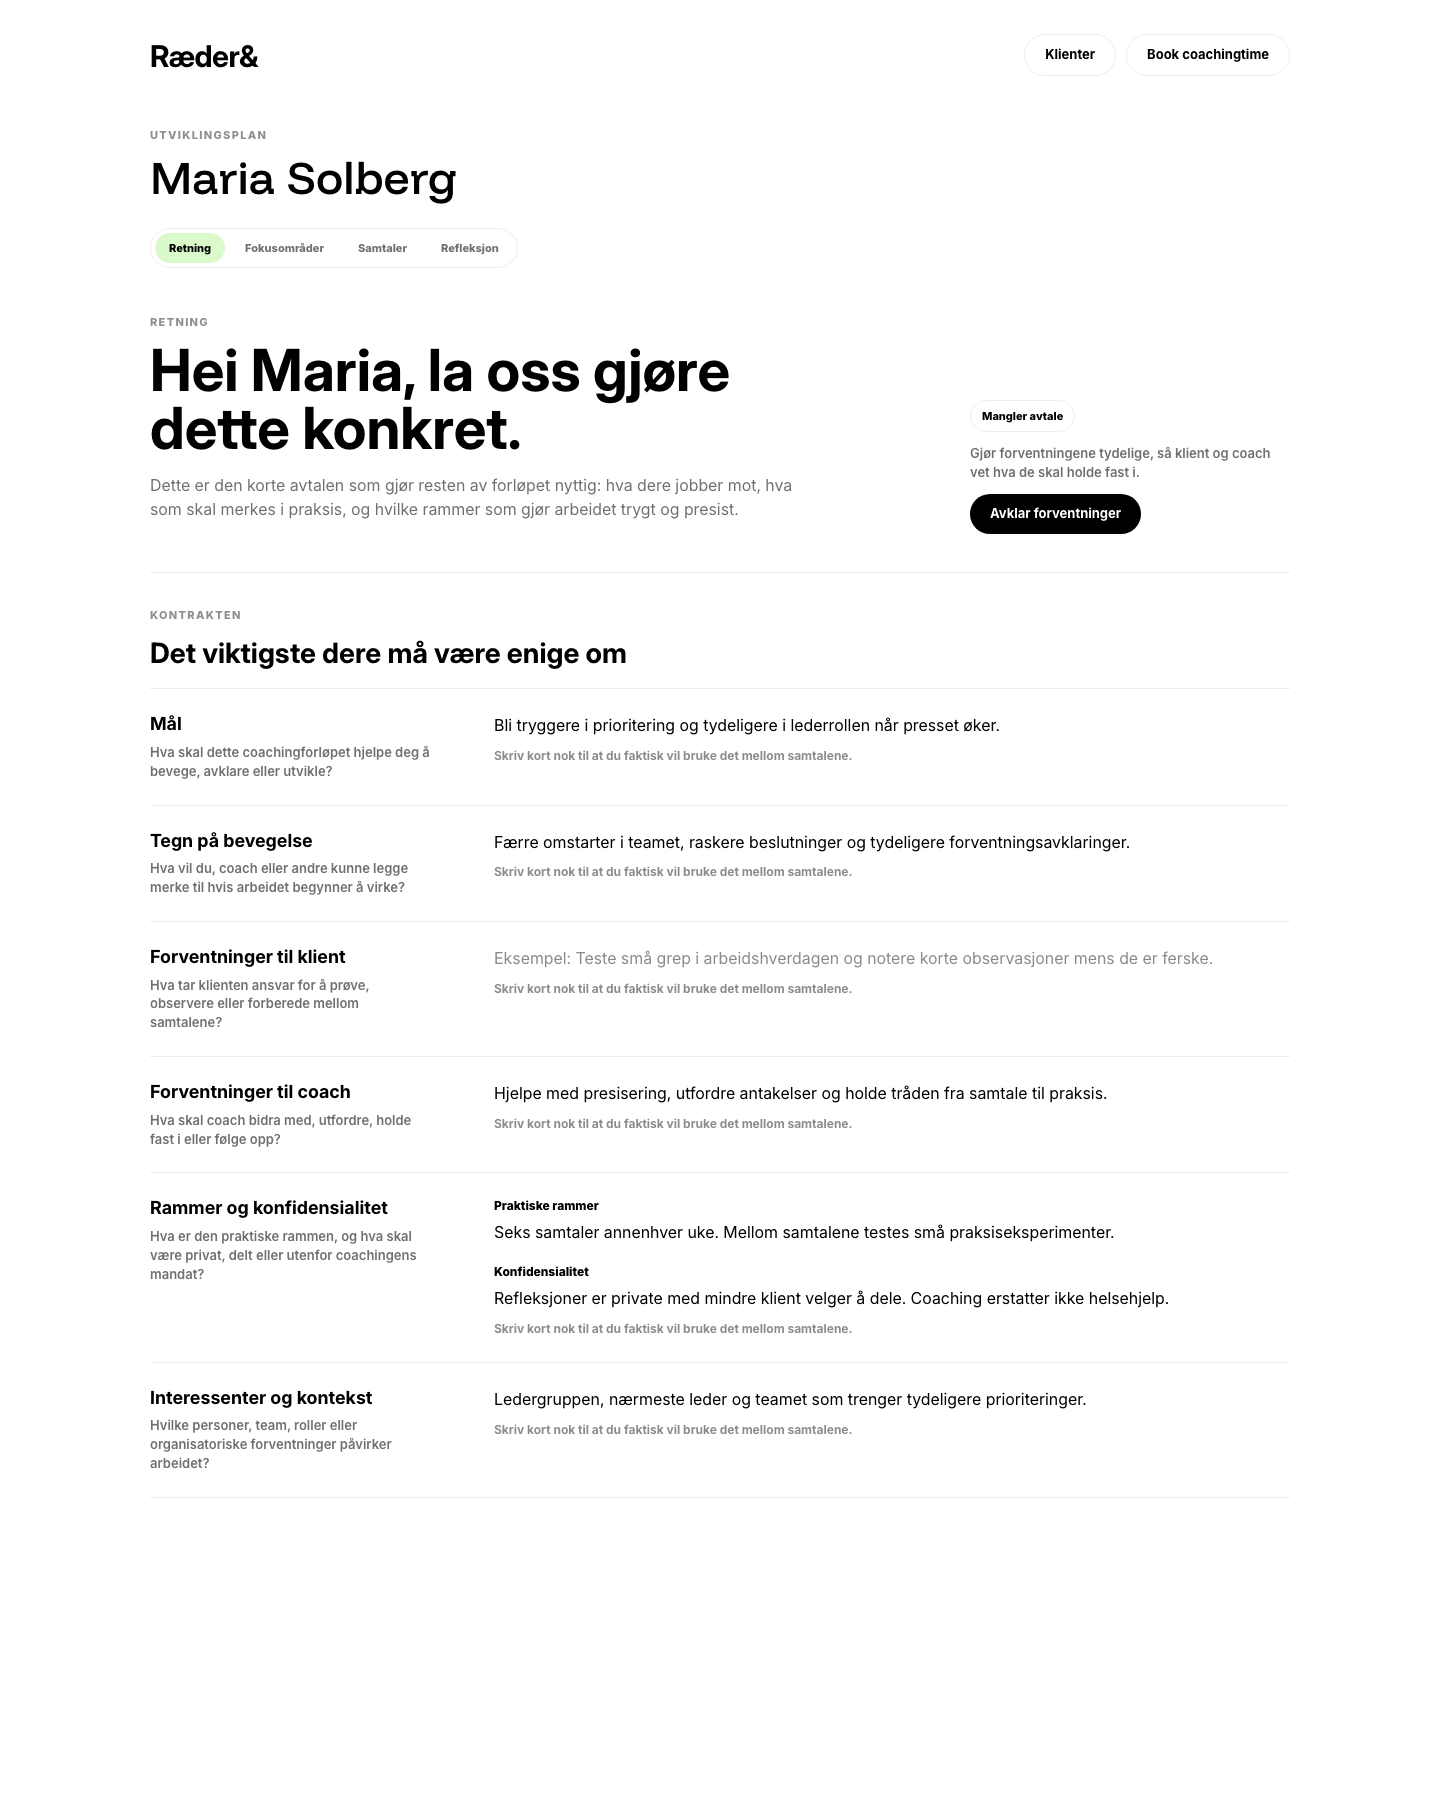
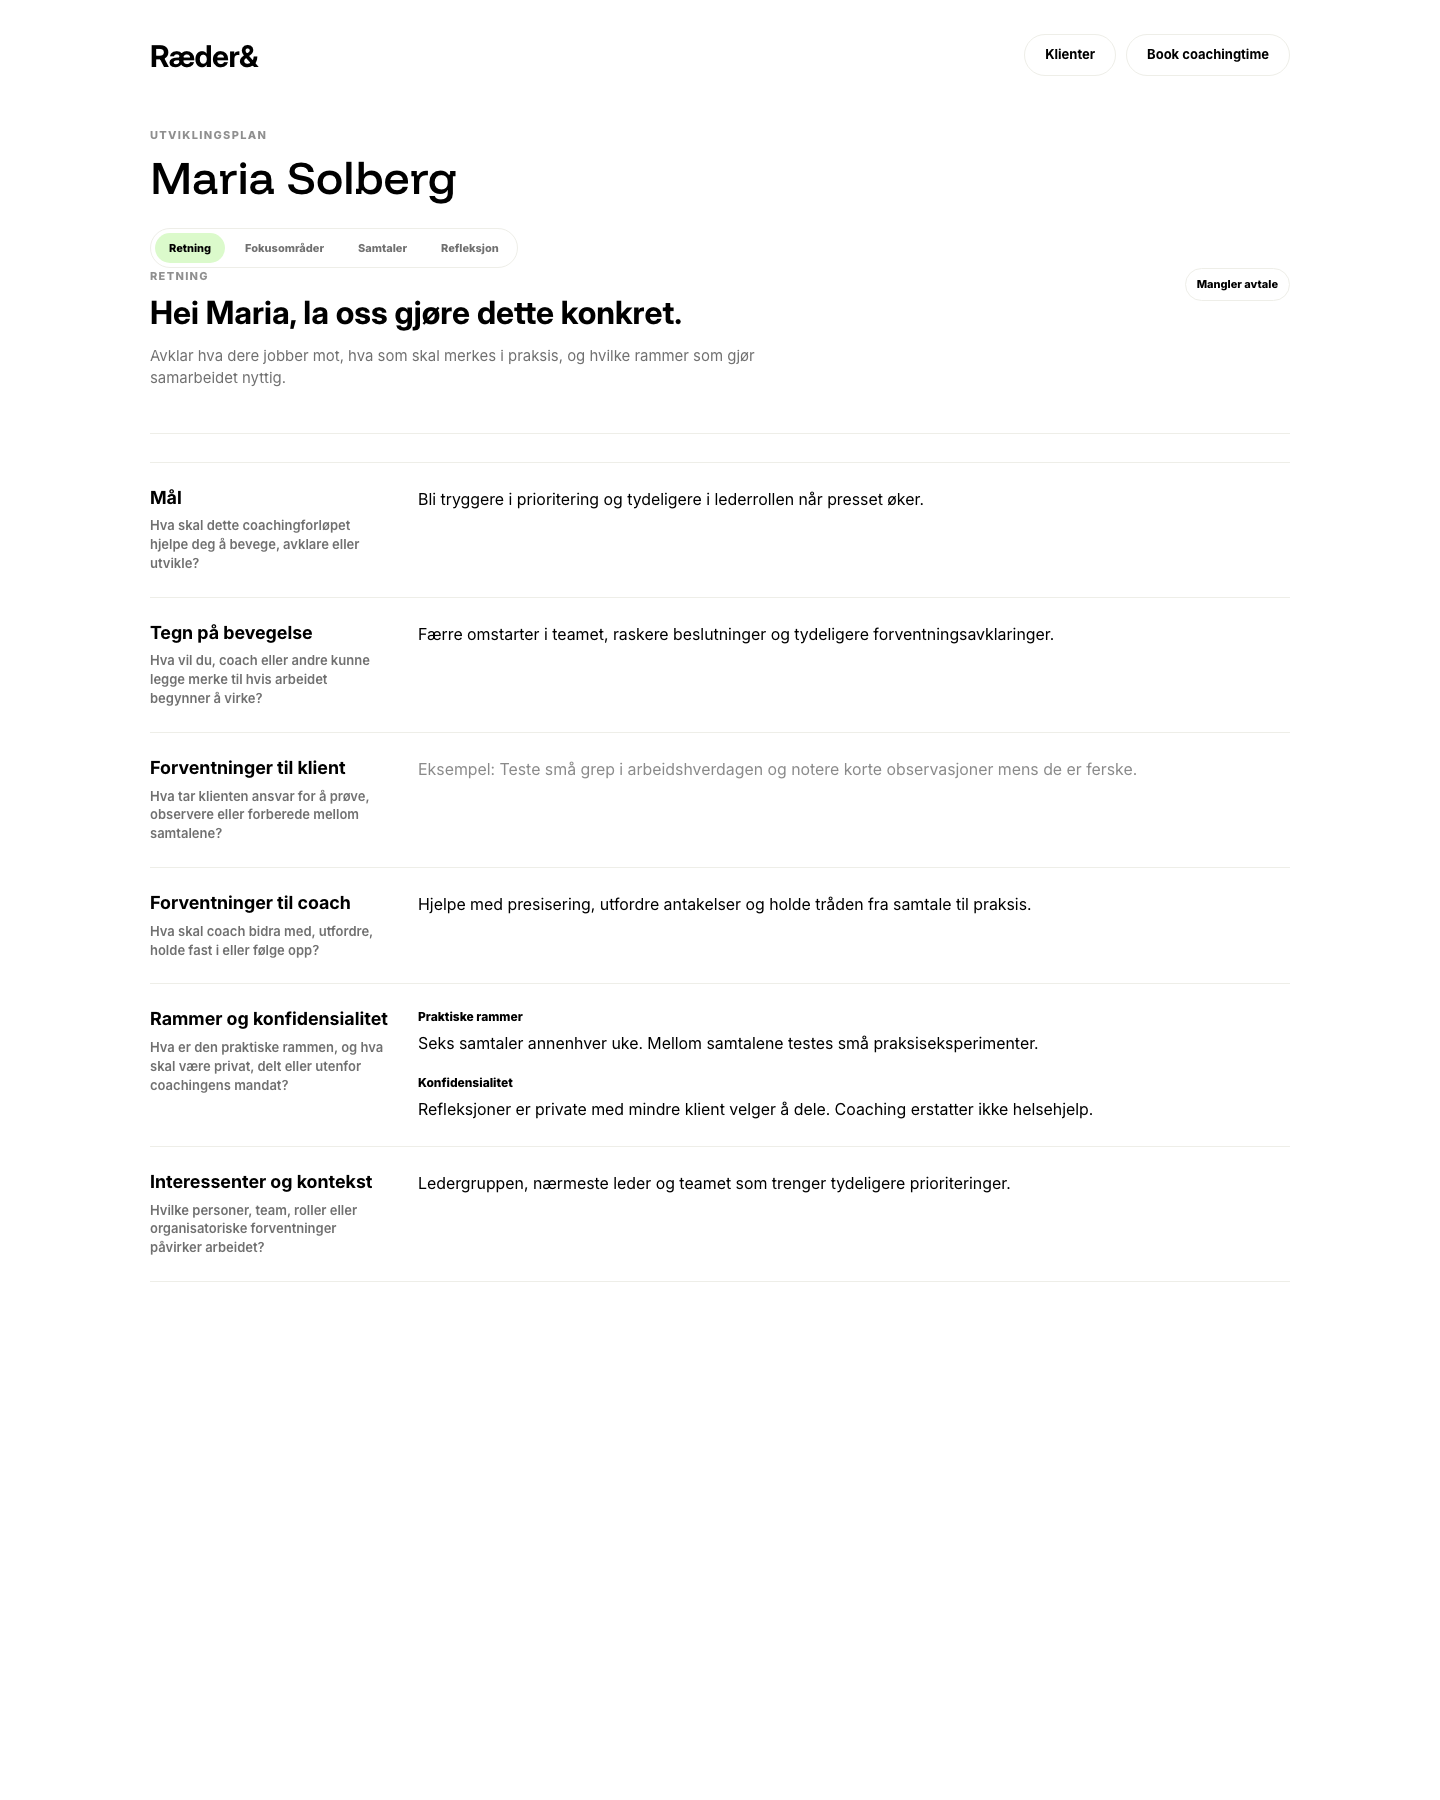
Simplify Retning V2 surface

diff --git a/styles.css b/styles.css
@@ -708,49 +708,36 @@ tr:last-child td { border-bottom: 0; }
 .workspace-pane { display: none; }
 .workspace-pane.active { display: grid; gap: 30px; }
 .direction-stack { display: grid; gap: 16px; }
-.direction-v2 {
+.direction-simple {
   display: grid;
-  gap: 34px;
+  gap: 28px;
 }
-.direction-v2-hero {
-  display: grid;
-  grid-template-columns: minmax(0, 1fr) 320px;
-  gap: clamp(24px, 5vw, 72px);
-  align-items: end;
-  padding: 46px 0 34px;
+.direction-simple-head {
+  display: flex;
+  justify-content: space-between;
+  align-items: flex-start;
+  gap: 24px;
+  padding-bottom: 28px;
   border-bottom: 1px solid var(--line);
 }
-.direction-v2-copy {
-  max-width: 760px;
-}
-.direction-v2-copy h3 {
+.direction-simple-copy {
   max-width: 720px;
-  margin: 10px 0 14px;
-  font-size: clamp(38px, 4.5vw, 58px);
-  line-height: 1;
+}
+.direction-simple-copy h3 {
+  margin: 8px 0 10px;
+  font-size: 32px;
+  line-height: 1.1;
   letter-spacing: 0;
 }
-.direction-v2-copy p:not(.eyebrow) {
-  max-width: 650px;
-  font-size: 16px;
-  line-height: 1.55;
-}
-.direction-v2-status {
-  display: grid;
-  justify-items: start;
-  gap: 12px;
-  padding-bottom: 4px;
-}
-.direction-v2-status p {
-  margin: 0;
-  color: var(--muted);
-  font-size: 13px;
-  font-weight: 600;
-  line-height: 1.45;
+.direction-simple-copy p:not(.eyebrow) {
+  max-width: 640px;
+  font-size: 15px;
+  line-height: 1.5;
 }
 .direction-status {
   display: inline-flex;
   align-items: center;
+  flex: 0 0 auto;
   min-height: 28px;
   padding: 7px 11px;
   border-radius: 999px;
@@ -768,23 +755,16 @@ tr:last-child td { border-bottom: 0; }
   border: 1px solid var(--line);
   color: #000;
 }
-.direction-v2-fields {
+.direction-list {
   display: grid;
   gap: 0;
-}
-.direction-section-head {
-  display: grid;
-  gap: 4px;
-  padding-bottom: 20px;
-}
-.direction-section-head h3 {
-  margin: 0;
-  font-size: 28px;
-  line-height: 1.1;
 }
 .direction-field {
   position: relative;
   display: grid;
+  grid-template-columns: minmax(0, 1fr) auto;
+  gap: 16px;
+  align-items: start;
   padding: 24px 0;
   border-top: 1px solid var(--line);
 }
@@ -792,13 +772,13 @@ tr:last-child td { border-bottom: 0; }
   border-bottom: 1px solid var(--line);
 }
 .direction-field:hover {
-  background: linear-gradient(90deg, rgba(0,0,0,.018), transparent 62%);
+  background: rgba(0,0,0,.012);
 }
 .direction-field-main,
 .direction-edit {
   display: grid;
-  grid-template-columns: 280px minmax(0, 1fr);
-  gap: clamp(24px, 5vw, 64px);
+  grid-template-columns: 240px minmax(0, 1fr);
+  gap: 28px;
   align-items: start;
 }
 .direction-field-label h4 {
@@ -815,19 +795,13 @@ tr:last-child td { border-bottom: 0; }
 }
 .direction-field-value {
   display: grid;
-  gap: 10px;
+  gap: 8px;
   max-width: 720px;
 }
 .direction-field-value p {
   margin: 0;
   font-size: 16px;
   line-height: 1.55;
-}
-.direction-field-value small {
-  color: rgba(0,0,0,.45);
-  font-size: 12px;
-  font-weight: 650;
-  line-height: 1.4;
 }
 .direction-empty {
   color: rgba(0,0,0,.46);
@@ -842,13 +816,19 @@ tr:last-child td { border-bottom: 0; }
   font-size: 12px;
   font-weight: 800;
 }
-.direction-field-hit {
-  position: absolute;
-  inset: 0;
-  z-index: 1;
+.direction-edit-trigger {
+  align-self: start;
   border: 0;
+  padding: 4px 0;
   background: transparent;
-  cursor: text;
+  color: var(--muted);
+  font-size: 12px;
+  font-weight: 800;
+  opacity: 0;
+}
+.direction-field:hover .direction-edit-trigger,
+.direction-edit-trigger:focus-visible {
+  opacity: 1;
 }
 .direction-field.is-editing {
   padding: 24px;
@@ -2318,11 +2298,19 @@ tr:last-child td { border-bottom: 0; }
   .workspace-head .button { width: 100%; min-height: 38px; }
   .workspace-intro-actions .button { width: fit-content; min-height: 38px; }
   .document-block, .focus-row, .editable-row, .row-open { grid-template-columns: 1fr; gap: 8px; }
-  .direction-v2-hero,
+  .direction-simple-head,
+  .direction-field,
   .direction-field-main,
   .direction-edit {
     grid-template-columns: 1fr;
     gap: 18px;
+  }
+  .direction-simple-head {
+    display: grid;
+  }
+  .direction-edit-trigger {
+    justify-self: start;
+    opacity: 1;
   }
   .direction-edit-actions {
     grid-column: 1;
@@ -2370,14 +2358,11 @@ tr:last-child td { border-bottom: 0; }
   .topline { padding: 40px 20px 46px; grid-template-columns: 1fr; align-items: flex-start; min-height: 0; }
   .topline-actions { justify-content: flex-start; padding-bottom: 0; }
   .content { padding: 42px 20px 86px; }
-  .direction-v2-hero {
-    padding: 22px 0 30px;
+  .direction-simple-head {
+    padding-bottom: 22px;
   }
-  .direction-v2-copy h3 {
-    font-size: 44px;
-  }
-  .direction-v2-status {
-    padding-bottom: 0;
+  .direction-simple-copy h3 {
+    font-size: 30px;
   }
   .direction-field {
     padding: 22px 0;

diff --git a/docs/mockups/retning-v2-contract-preview.html b/docs/mockups/retning-v2-contract-preview.html
@@ -34,26 +34,17 @@
       <button class="workspace-tab"><span>Refleksjon</span></button>
     </div>
 
-    <section class="direction-v2">
-      <section class="direction-v2-hero">
-        <div class="direction-v2-copy">
+    <section class="direction-simple">
+      <div class="direction-simple-head">
+        <div class="direction-simple-copy">
           <p class="eyebrow">Retning</p>
           <h3>Hei Maria, la oss gjøre dette konkret.</h3>
-          <p class="muted">Dette er den korte avtalen som gjør resten av forløpet nyttig: hva dere jobber mot, hva som skal merkes i praksis, og hvilke rammer som gjør arbeidet trygt og presist.</p>
+          <p class="muted">Avklar hva dere jobber mot, hva som skal merkes i praksis, og hvilke rammer som gjør samarbeidet nyttig.</p>
         </div>
-        <div class="direction-v2-status">
-          <span class="direction-status partial">Mangler avtale</span>
-          <p>Gjør forventningene tydelige, så klient og coach vet hva de skal holde fast i.</p>
-          <button class="button primary">Avklar forventninger</button>
-        </div>
-      </section>
+        <span class="direction-status partial">Mangler avtale</span>
+      </div>
 
-      <section class="direction-v2-fields">
-        <div class="direction-section-head">
-          <p class="eyebrow">Kontrakten</p>
-          <h3>Det viktigste dere må være enige om</h3>
-        </div>
-
+      <div class="direction-list">
         <article class="direction-field has-value">
           <div class="direction-field-main">
             <div class="direction-field-label">
@@ -62,9 +53,9 @@
             </div>
             <div class="direction-field-value">
               <p>Bli tryggere i prioritering og tydeligere i lederrollen når presset øker.</p>
-              <small>Skriv kort nok til at du faktisk vil bruke det mellom samtalene.</small>
             </div>
           </div>
+          <button class="direction-edit-trigger">Rediger</button>
         </article>
 
         <article class="direction-field has-value">
@@ -75,9 +66,9 @@
             </div>
             <div class="direction-field-value">
               <p>Færre omstarter i teamet, raskere beslutninger og tydeligere forventningsavklaringer.</p>
-              <small>Skriv kort nok til at du faktisk vil bruke det mellom samtalene.</small>
             </div>
           </div>
+          <button class="direction-edit-trigger">Rediger</button>
         </article>
 
         <article class="direction-field is-empty">
@@ -88,9 +79,9 @@
             </div>
             <div class="direction-field-value">
               <p class="direction-empty">Eksempel: Teste små grep i arbeidshverdagen og notere korte observasjoner mens de er ferske.</p>
-              <small>Skriv kort nok til at du faktisk vil bruke det mellom samtalene.</small>
             </div>
           </div>
+          <button class="direction-edit-trigger">Legg til</button>
         </article>
 
         <article class="direction-field has-value">
@@ -101,9 +92,9 @@
             </div>
             <div class="direction-field-value">
               <p>Hjelpe med presisering, utfordre antakelser og holde tråden fra samtale til praksis.</p>
-              <small>Skriv kort nok til at du faktisk vil bruke det mellom samtalene.</small>
             </div>
           </div>
+          <button class="direction-edit-trigger">Rediger</button>
         </article>
 
         <article class="direction-field has-value">
@@ -123,9 +114,9 @@
                   <p>Refleksjoner er private med mindre klient velger å dele. Coaching erstatter ikke helsehjelp.</p>
                 </div>
               </div>
-              <small>Skriv kort nok til at du faktisk vil bruke det mellom samtalene.</small>
             </div>
           </div>
+          <button class="direction-edit-trigger">Rediger</button>
         </article>
 
         <article class="direction-field has-value">
@@ -136,11 +127,11 @@
             </div>
             <div class="direction-field-value">
               <p>Ledergruppen, nærmeste leder og teamet som trenger tydeligere prioriteringer.</p>
-              <small>Skriv kort nok til at du faktisk vil bruke det mellom samtalene.</small>
             </div>
           </div>
+          <button class="direction-edit-trigger">Rediger</button>
         </article>
-      </section>
+      </div>
     </section>
   </main>
 </body>

diff --git a/app.js b/app.js
@@ -784,26 +784,16 @@ function directionWorkspace(client, plan) {
   const directionSpecs = getDirectionSpecs(plan);
   const firstName = (client.name || "du").split(" ")[0];
   const status = directionStatus(plan);
-  const nextMissing = directionSpecs.find((spec) => !directionSpecHasValue(spec));
-  return el("div", { class: "direction-v2" }, [
-    el("section", { class: "direction-v2-hero" }, [
-      el("div", { class: "direction-v2-copy" }, [
+  return el("section", { class: "direction-simple" }, [
+    el("div", { class: "direction-simple-head" }, [
+      el("div", { class: "direction-simple-copy" }, [
         el("p", { class: "eyebrow", text: "Retning" }),
         el("h3", { text: `Hei ${firstName}, la oss gjøre dette konkret.` }),
-        el("p", { class: "muted", text: "Dette er den korte avtalen som gjør resten av forløpet nyttig: hva dere jobber mot, hva som skal merkes i praksis, og hvilke rammer som gjør arbeidet trygt og presist." })
+        el("p", { class: "muted", text: "Avklar hva dere jobber mot, hva som skal merkes i praksis, og hvilke rammer som gjør samarbeidet nyttig." })
       ]),
-      el("div", { class: "direction-v2-status" }, [
-        el("span", { class: `direction-status ${status.tone}`, text: status.label }),
-        el("p", { text: status.text }),
-        editable && nextMissing ? button(status.action, "arrow-right", () => activateDirectionEdit(nextMissing), "primary") : null,
-        !nextMissing ? button("Gå til fokusområder", "arrow-right", () => activateWorkspacePane("work"), "ghost") : null
-      ].filter(Boolean))
+      el("span", { class: `direction-status ${status.tone}`, text: status.label })
     ]),
-    el("section", { class: "direction-v2-fields" }, [
-      el("div", { class: "direction-section-head" }, [
-        el("p", { class: "eyebrow", text: "Kontrakten" }),
-        el("h3", { text: "Det viktigste dere må være enige om" })
-      ]),
+    el("div", { class: "direction-list" }, [
       ...directionSpecs.map((spec) => directionInlineField(spec, editable, client))
     ])
   ]);
@@ -914,9 +904,6 @@ function directionSpecPreview(spec) {
 
 function directionInlineField(spec, editable, client) {
   const value = directionSpecPreview(spec);
-  const roleHint = state.profile.role === "coach"
-    ? "Er dette presist nok til å coache fra?"
-    : "Skriv kort nok til at du faktisk vil bruke det mellom samtalene.";
   return el("article", { class: `direction-field ${value ? "has-value" : "is-empty"}`, "data-direction-key": spec.key }, [
     el("div", { class: "direction-field-main" }, [
       el("div", { class: "direction-field-label" }, [
@@ -924,14 +911,14 @@ function directionInlineField(spec, editable, client) {
         el("p", { text: spec.helper })
       ]),
       el("div", { class: "direction-field-value" }, [
-        value ? directionValueContent(spec) : el("p", { class: "direction-empty", text: spec.placeholder || spec.helper }),
-        el("small", { text: roleHint })
+        value ? directionValueContent(spec) : el("p", { class: "direction-empty", text: spec.placeholder || spec.helper })
       ])
     ]),
     editable ? el("button", {
-      class: "direction-field-hit",
+      class: "direction-edit-trigger",
       type: "button",
       title: `Rediger ${spec.label}`,
+      text: value ? "Rediger" : "Legg til",
       onclick: () => activateDirectionEdit(spec)
     }) : null
   ].filter(Boolean));
